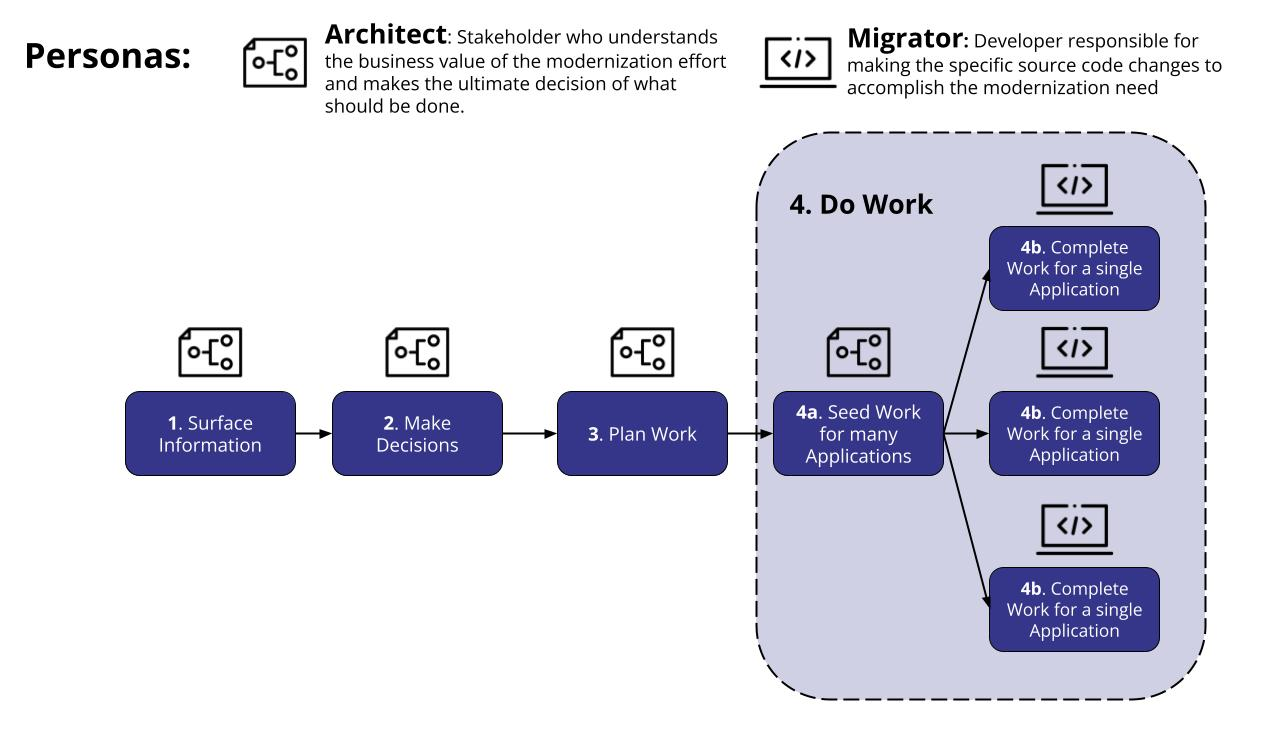
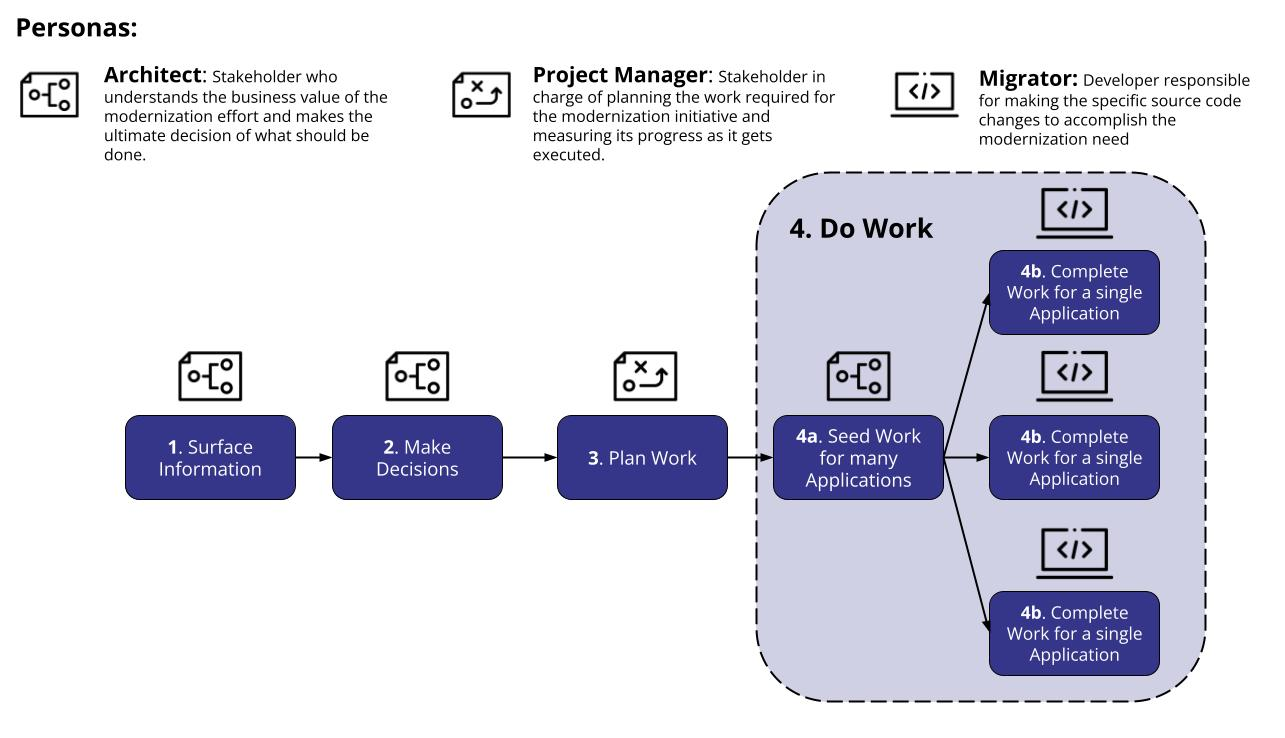
Included the Project Manager persona and updated diagrams accordingly

Changed region(s): [[0.0, 0.0312, 0.965, 0.9661], [0.5914, 0.9038, 0.6226, 0.935]]

diff --git a/enhancements/unified_experience/README.md b/enhancements/unified_experience/README.md
@@ -50,12 +50,12 @@ The unified experience will be centered on surfacing information to a user so th
 decisions in regard to application modernization.
 
 The unified experience aims to be developed in a technology-agnostic manner, meaning Konveyor will codify discrete steps
-to build a workflow for any modernization journey, relying on additional components to provide the technology specific 
-details.  The aim being that this solution will be able to evolve in time as technology needs change beyond the initial 
+to build a workflow for any modernization journey, relying on additional components to provide the technology specific
+details.  The aim being that this solution will be able to evolve in time as technology needs change beyond the initial
 goal of enabling legacy applications to be modernized to Kubernetes.
 
 _Note: Konveyor will integrate and provide tools that will aid specific modernization use-cases, yet it is _not_
-intended to become an 'easy button' that will 'automagically' refactor an application for a given technology. That is 
+intended to become an 'easy button' that will 'automagically' refactor an application for a given technology. That is
 considered out of scope for the project._
 
 ## Workflow
@@ -74,7 +74,7 @@ catalog of integrated tools to aid specific workflows.
 While the workflow associated with the Unified Experience provides differential value on each one of the stages of the Konveyor migration methodology, the intent is to make it generic enough so it can be leveraged on different migration and modernization methodologies that organizations, GSIs and vendors might be used to follow. Konveyor won't be built to enforce a given methodology, but to **provide insights, guidance, assets and some degree of automation that can be leveraged on large scale migration projects**. The ultimate goal of Konveyor is to enable organizations to reduce the risk associated with large modernization initiatives by making the associated projects measurable and predictable.
 
 ## Personas
-Two initial personas are identified, with more to be added in the future.
+Three different personas have been identified so far, with more to be added in the future.
 
 ![Workflow_DoWork](images/Workflow_Personas.jpg)
 [Image Source](https://docs.google.com/drawings/d/1ASbIjFKfQc88ZeL-Dm7RsfTNkxystsmgmZagrqk8q6o/edit)
@@ -82,7 +82,7 @@ Two initial personas are identified, with more to be added in the future.
 ### Architect
 
 
-A decision maker leading the modernization/migration initiative, who will review information Konveyor surfaces about an application's suitability for a given platform or runtime technology and ultimately make decisions of planning work for a **Migrator** to complete.
+A decision maker and tech lead for the modernization/migration initiative, who will review information Konveyor surfaces about an application's suitability for a given platform or runtime technology and ultimately make decisions of planning work for a **Migrator** to complete.
 * Surfaced information will be used to help this user make informed decisions, plan, and begin to execute
 modernization work.
 * Architects are expected to be knowledgeable individuals that understand the business value an application provides and are capable
@@ -94,6 +94,10 @@ of weighing technical costs versus expected business value to decide on the best
 
 
 A developer assigned to handle the source code updates and development efforts to satisfy issues identified and allow the application to run on a target platform or runtime technology and ideally leverage its capabilities.
+
+### Project Manager
+
+The management lead for the modernization/migration initiative, in charge of planning the work required for it to be executed and measuring progress.
 
 # Steps
 ## Step-1: Surface Information
@@ -117,7 +121,7 @@ which is out of scope for the tooling to decide.
 ![UnifiedVision_Step3](images/UnifiedVision_Step3.jpg)
 [Image Source](https://docs.google.com/drawings/d/1und523-QrA_p7dRkEzAD8GDdyHbE4DRKP6OoOn36HBU/edit)
 
-Step-3 is focused on helping an Architect plan work via batching units of work together in 'Migration Waves'.
+Step-3 is focused on helping a Project Manager plan work via batching units of work together in 'Migration Waves'.
 
 Optionally, this step will allow integration with an external issue tracking system.  The expected workflow is that
 integration with an external system, such as Jira for example, would allow a Jira Story/Task to be created per
